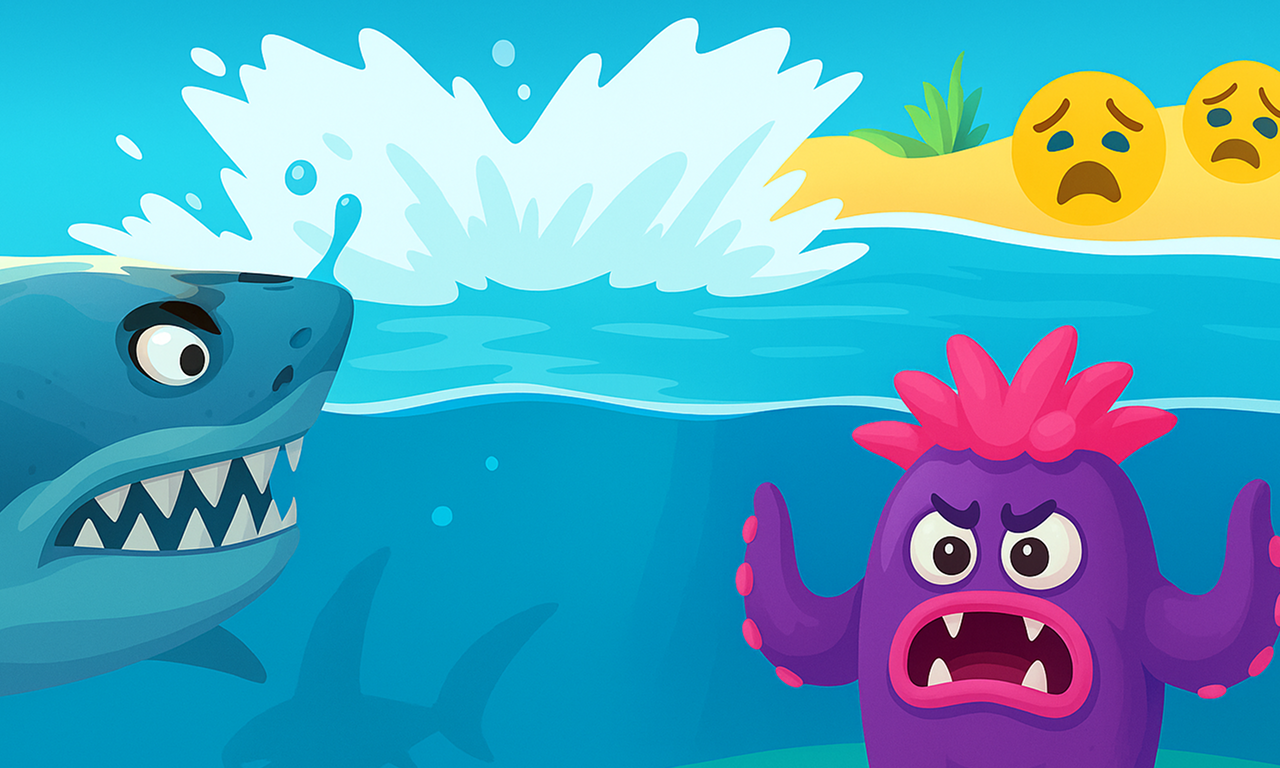
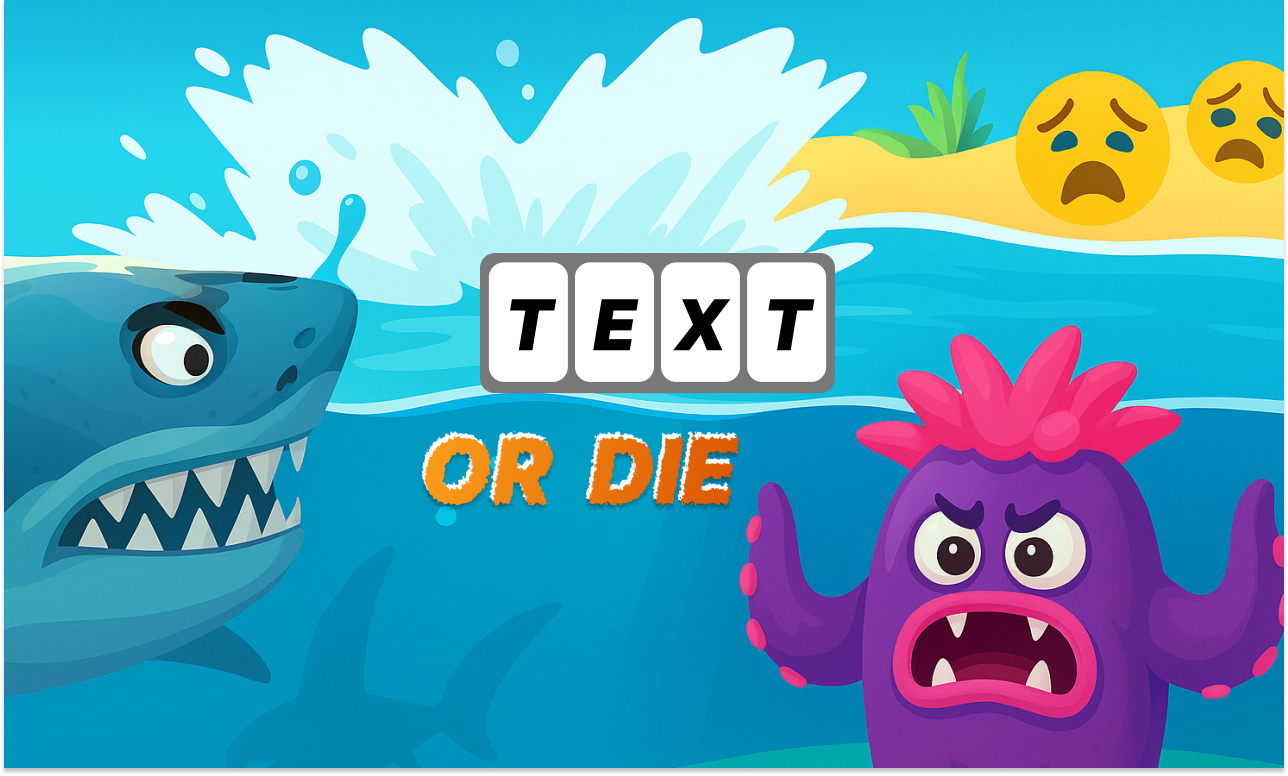
venv

diff --git a/ui/character.py b/ui/character.py
@@ -2,17 +2,19 @@ import pygame
 import os
 from utils.spritesheet import SpriteSheet  # Adjust the import path as needed
 
+# idle run `
+
 class Character:
     def __init__(self, name, x, y):
         self.name = name
         self.x = x
         self.y = y
-       
+
         # Load the sprite sheet
         sprite_path = os.path.join('assets', 'Fighter', 'Idle.png')
         sprite_sheet_image = pygame.image.load(sprite_path).convert_alpha()
         sprite_sheet = SpriteSheet(sprite_sheet_image)
-       
+
         # Animation settings
         self.frame_width = 48  # Adjust based on your sprite dimensions
         self.frame_height = 48  # Adjust based on your sprite dimensions
@@ -21,11 +23,11 @@ class Character:
         self.current_frame = 0
         self.animation_speed = 0.15  # Adjust for faster/slower animation
         self.animation_counter = 0
-       
+
         # Extract frames from sprite sheet
         self.idle_frames = []
         self.load_frames(sprite_sheet)
-       
+
     def load_frames(self, sprite_sheet):
         """Extract individual frames from the sprite sheet"""
         for i in range(self.total_frames):
@@ -40,25 +42,25 @@ class Character:
             )
             self.idle_frames.append(frame)
         print(f"Loaded {len(self.idle_frames)} frames")  # DEBUG
-   
+
     def update(self):
         """Update animation frame"""
         self.animation_counter += self.animation_speed
-       
+
         if self.animation_counter >= 1:
             self.animation_counter = 0
             self.current_frame = (self.current_frame + 1) % self.total_frames
-   
+
     def draw(self, surface):
         """Draw the current animation frame"""
         current_image = self.idle_frames[self.current_frame]
         surface.blit(current_image, (self.x, self.y))
-        
+
         # DEBUG: Draw a red rectangle to show where character should be
         rect_width = self.frame_width * self.scale
         rect_height = self.frame_height * self.scale
         pygame.draw.rect(surface, (255, 0, 0), (self.x, self.y, rect_width, rect_height), 2)
-   
+
     def set_position(self, x, y):
         """Update character position"""
         self.x = x

diff --git a/utils/checkword.py b/utils/checkword.py
@@ -3,22 +3,22 @@ import enchant
 class WordChecker:
     def __init__(self, language="en_US"):
         self.dictionary = enchant.Dict(language)
-    
+
     def check_word(self, word):
         """
         Check if a word is valid
         Returns: tuple (is_valid: bool, message: str, color: tuple)
         """
         word = word.strip()
-        
+
         if not word:
             return False, "Please type a word first!", (255, 255, 255)
-        
+
         if self.dictionary.check(word):
             return True, f"'{word}' is a valid word!", (0, 255, 0)
         else:
             return False, f"'{word}' is NOT a valid word!", (255, 0, 0)
-    
+
     def is_valid(self, word):
         """
         Simple check if word is valid (returns only boolean)

diff --git a/ui/main_page.py b/ui/main_page.py
@@ -24,11 +24,6 @@ class MainPage:
     def render(self):
         self.screen.blit(self.background, (0, 0))
 
-        title = self.font.render('Text Or Death', True, (0, 0, 0))
-        text1 = self.font1.render('press any key', True, (90, 90, 90))
-
-        title_rect = title.get_rect(center=(self.screenWidth // 2, self.screenHeight // 2))
-        text1_rect = text1.get_rect(center=(self.screenWidth // 2, self.screenHeight // 2 + 60))
-
-        self.screen.blit(title, title_rect)
+        text1 = self.font1.render('press any key to Enter...', True, (80, 80, 80))
+        text1_rect = text1.get_rect(center=(self.screenWidth // 2, self.screenHeight // 2 + 150))
         self.screen.blit(text1, text1_rect)
